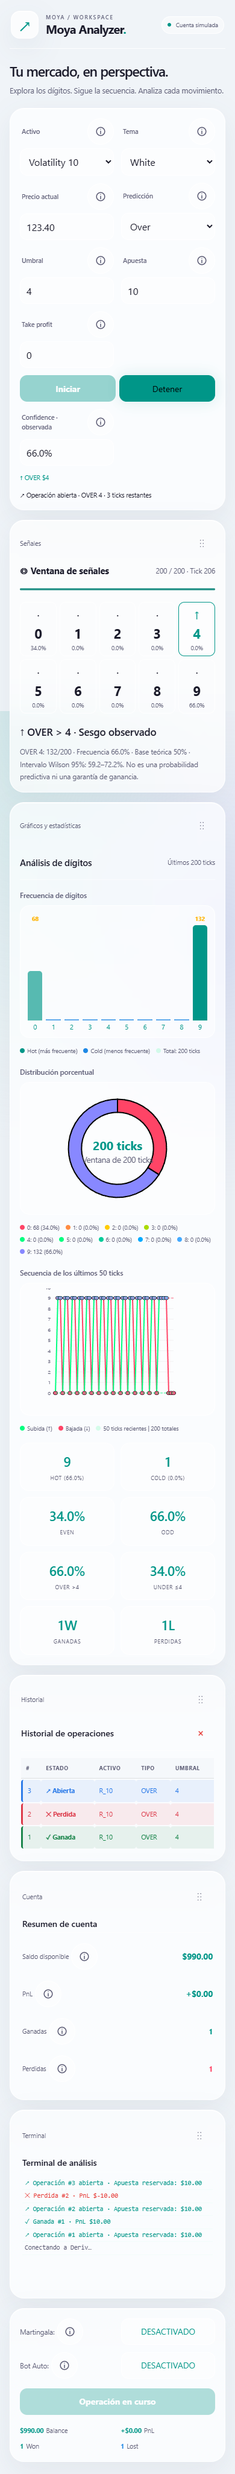
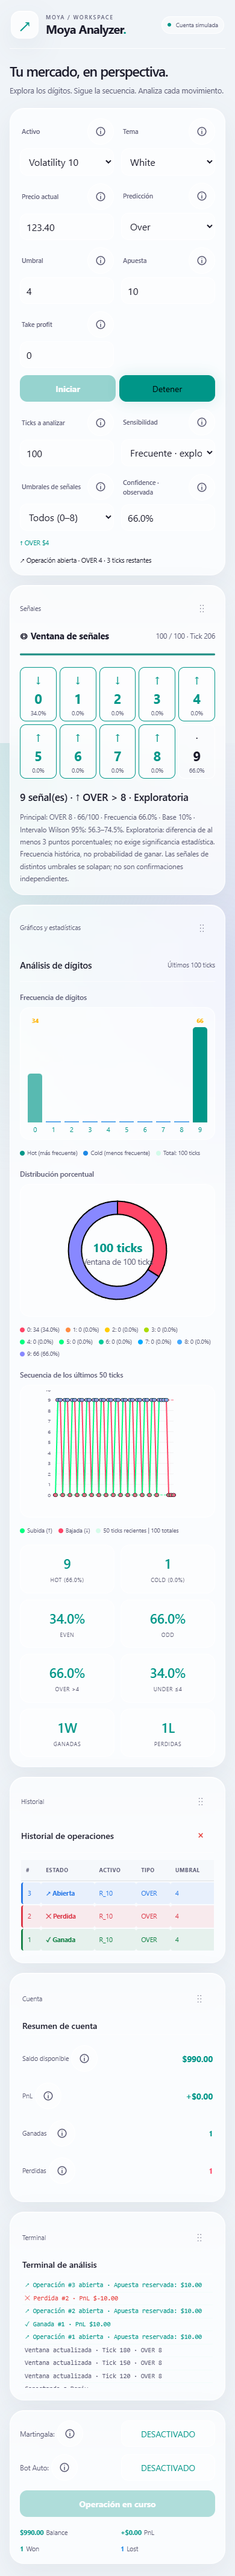
v2.9

diff --git a/index.html b/index.html
@@ -1273,6 +1273,9 @@ button:focus-visible,select:focus-visible,input:focus-visible,[tabindex]:focus-v
 <div class="field field-trade-stake"><label for="trade-stake">Apuesta</label><input type="number" id="trade-stake" min="0.01" step="0.01" value="1.00" title="Monto de la apuesta"></div>
 <div class="field field-trade-tp"><label for="trade-tp">Take profit</label><input type="number" id="trade-tp" min="0" step="0.01" value="0" title="Take Profit: objetivo de beneficio acumulado (0 = sin límite)"></div>
 <div class="session-actions"><button id="btn-start" onclick="start()" title="Iniciar conexión WebSocket y análisis">Iniciar</button><button id="btn-stop" onclick="stop()" disabled title="Detener sesión y análisis">Detener</button></div>
+<div class="field"><label for="analysis-window">Ticks a analizar</label><input id="analysis-window" type="number" min="20" max="1000" step="1" value="100"></div>
+<div class="field"><label for="signal-sensitivity">Sensibilidad</label><select id="signal-sensitivity"><option value="frequent">Frecuente · exploratoria</option><option value="balanced">Equilibrada</option><option value="strict">Estricta</option></select></div>
+<div class="field"><label for="signal-scope">Umbrales de señales</label><select id="signal-scope"><option value="all">Todos (0–8)</option><option value="selected">Solo el elegido</option></select></div>
 <div class="field field-confidence"><label for="confidence">Confidence · observada</label><input id="confidence" readonly value="—" aria-describedby="signal-explanation"></div>
 <div class="field field-theme-select"><label for="theme-select">Tema</label><select id="theme-select" title="Cambiar tema visual">
             <option value="matrix">Matrix</option>
@@ -1286,7 +1289,7 @@ button:focus-visible,select:focus-visible,input:focus-visible,[tabindex]:focus-v
     <div class="main">
 
         <div class="digits-panel">
-            <div class="chart-title-bar">Análisis de dígitos <span class="panel-caption">Últimos 200 ticks</span></div>
+            <div class="chart-title-bar">Análisis de dígitos <span class="panel-caption" id="analysis-caption">Últimos 100 ticks</span></div>
             <div class="charts-row">
                 <div class="chart-section">
                     <div class="chart-subtitle">Frecuencia de dígitos</div>
@@ -1426,6 +1429,7 @@ let retries = 0;
 let sessionSymbol = 'R_10';
 let baseStake = 1;
 let latestSignal = null;
+let analysisWindow = 100;
 const roundMoney = value => Math.round((value + Number.EPSILON) * 100) / 100;
 
 function start() {
@@ -1497,7 +1501,7 @@ function processTick(digit, quote) {
     priceHistory.push(quote);
     currentPrice = quote;
 
-    if (ticks.length > 200) {
+    if (ticks.length > analysisWindow) {
         const old = ticks.shift();
         digitCounts[old]--;
     }
@@ -1667,7 +1671,7 @@ function renderDonutChart(container) {
     subLabel.setAttribute('text-anchor', 'middle');
     subLabel.setAttribute('fill', 'var(--text-muted)');
     subLabel.setAttribute('font-size', '10');
-    subLabel.textContent = ticks.length ? "Ventana de 200 ticks" : "Esperando datos";
+    subLabel.textContent = ticks.length ? `Ventana de ${analysisWindow} ticks` : "Esperando datos";
     svg.appendChild(subLabel);
 
     container.appendChild(svg);
@@ -2105,6 +2109,7 @@ function toggleAutoBot() {
 function evaluateAutoTrade() {
     if (!autoTrade || !isRunning || trade || !latestSignal?.qualified) return;
     document.getElementById('trade-type').value = latestSignal.type;
+    document.getElementById('trade-thold').value = latestSignal.n;
     openTrade();
 }
 
@@ -2150,7 +2155,7 @@ function showToast(message, type = '') {
 
 function updateAnalysis() {
     updateSignal();
-    if (ticks.length === 200) log('<span class="gray">Ventana actualizada · Tick ' + totalTicks + ' · ' + (latestSignal?.qualified ? latestSignal.type.toUpperCase() + ' ' + latestSignal.n : 'Sin señal estadística') + '</span>');
+    if (ticks.length === analysisWindow) log('<span class="gray">Ventana actualizada · Tick ' + totalTicks + ' · ' + (latestSignal?.qualified ? latestSignal.type.toUpperCase() + ' ' + latestSignal.n : 'Sin señal estadística') + '</span>');
 }
 
 document.getElementById('symbol').addEventListener('change', function() {
@@ -2430,9 +2435,9 @@ if ('ResizeObserver' in window) {
 <!-- embedded:workspace.js:start -->
 <script data-source="workspace.js">
 /* Local workspace controls; no framework, external icon font or account needed. */
-function wilsonInterval(successes, count) {
+function wilsonInterval(successes, count, z = 1.96) {
     if (!count) return [0, 1];
-    const z = 1.96, p = successes / count, denominator = 1 + z*z/count;
+    const p = successes / count, denominator = 1 + z*z/count;
     const centre = (p + z*z/(2*count)) / denominator;
     const margin = z * Math.sqrt(p*(1-p)/count + z*z/(4*count*count)) / denominator;
     return [Math.max(0, centre-margin), Math.min(1, centre+margin)];
@@ -2440,53 +2445,80 @@ function wilsonInterval(successes, count) {
 
 function updateSignal() {
     const count = ticks.length;
+    const mode = document.getElementById('signal-sensitivity').value;
+    const all = document.getElementById('signal-scope').value === 'all';
     const raw = document.getElementById('trade-thold').value;
-    const n = Number(raw);
-    const valid = raw !== '' && Number.isInteger(n) && n >= 0 && n < 9;
-    const ready = count === 200 && valid;
-    latestSignal = null;
-    document.getElementById('window-count').textContent = count + ' / 200 · Tick ' + totalTicks;
-    document.getElementById('window-progress').value = count;
-    const summary = document.getElementById('signal-summary');
-    const confidence = document.getElementById('confidence');
-    confidence.value = '—';
-    if (ready) {
+    const selected = Number(raw);
+    const valid = raw !== '' && Number.isInteger(selected) && selected >= 0 && selected < 9;
+    const ready = count === analysisWindow;
+    const candidates = [];
+    if (ready) for (let n = 0; n < 9; n++) {
+        if (!all && (!valid || n !== selected)) continue;
         const overCount = ticks.filter(d => d > n).length;
-        const theoreticalOver = (9-n)/10;
-        const type = overCount/count > theoreticalOver ? 'over' : 'under';
+        const type = overCount/count > (9-n)/10 ? 'over' : 'under';
         const hits = type === 'over' ? overCount : count-overCount;
         const observed = hits/count;
         const baseline = getWinProbability(type,n);
         const [low, high] = wilsonInterval(hits,count);
-        // Compare a single user-selected threshold with its own theoretical baseline.
-        // A high raw percentage alone does not qualify as a signal.
-        const qualified = low > baseline;
-        latestSignal = {type,n,observed,baseline,low,high,qualified};
-        confidence.value = (observed*100).toFixed(1) + '%';
-        summary.textContent = qualified ? (type === 'over' ? '↑ OVER > ' : '↓ UNDER ≤ ') + n + ' · Sesgo observado' : 'Sin señal clara para el umbral ' + n;
-        document.getElementById('signal-explanation').textContent = type.toUpperCase() + ' ' + n + ': ' + hits + '/200 · Frecuencia ' + (observed*100).toFixed(1) + '% · Base teórica ' + (baseline*100).toFixed(0) + '% · Intervalo Wilson 95%: ' + (low*100).toFixed(1) + '–' + (high*100).toFixed(1) + '%. No es una probabilidad predictiva ni una garantía de ganancia.';
-    } else {
-        summary.textContent = !valid ? 'Selecciona un umbral de 0 a 8 para analizar ambas direcciones.' : 'Recopilando datos: faltan ' + (200-count) + ' ticks.';
-        document.getElementById('signal-explanation').textContent = 'A partir de 200 ticks, cada tick nuevo sustituye al más antiguo. Confidence muestra la frecuencia de la dirección analizada; no predice el siguiente tick.';
+        const balancedLow = wilsonInterval(hits,count,1.281552)[0];
+        const excess = observed-baseline;
+        const qualified = mode === 'frequent' ? excess >= .03 - 1e-10 : mode === 'balanced' ? balancedLow > baseline : low > baseline;
+        const score = excess / Math.sqrt(baseline*(1-baseline)/count);
+        candidates.push({type,n,hits,observed,baseline,low,high,qualified,score});
     }
-    document.getElementById('signal-digits').innerHTML = digitCounts.map((frequency,digit) => {
-        const active = latestSignal?.qualified && digit === n;
-        const arrow = active ? (latestSignal.type === 'over' ? '↑' : '↓') : '·';
-        return '<div class="signal-digit' + (active ? ' suggested' : '') + '"><span class="signal-arrow" aria-label="' + (active ? latestSignal.type.toUpperCase() + ' umbral ' + digit : 'Sin señal') + '">' + arrow + '</span><strong>' + digit + '</strong><small>' + (count ? frequency/count*100 : 0).toFixed(1) + '%</small></div>';
+    candidates.sort((a,b)=>Number(b.qualified)-Number(a.qualified)||b.score-a.score||a.n-b.n);
+    latestSignal = candidates[0] || null;
+    const active = candidates.filter(s=>s.qualified);
+    document.getElementById('window-count').textContent = count + ' / ' + analysisWindow + ' · Tick ' + totalTicks;
+    document.getElementById('analysis-caption').textContent = 'Últimos ' + analysisWindow + ' ticks';
+    const progress = document.getElementById('window-progress'); progress.max = analysisWindow; progress.value = count;
+    document.getElementById('confidence').value = latestSignal ? (latestSignal.observed*100).toFixed(1)+'%' : '—';
+    const summary=document.getElementById('signal-summary');
+    const explanation=document.getElementById('signal-explanation');
+    if (!ready) {
+        summary.textContent = 'Recopilando datos: faltan ' + (analysisWindow-count) + ' ticks.';
+        explanation.textContent = 'Cada tick nuevo actualizará las señales. Puedes reducir la ventana para empezar antes; una ventana corta también fluctúa más.';
+    } else if (!latestSignal) {
+        summary.textContent = 'Selecciona un umbral entre 0 y 8 o analiza todos.';
+        explanation.textContent = 'El umbral 9 no permite comparar dos resultados posibles.';
+    } else {
+        const s=latestSignal;
+        summary.textContent = active.length ? active.length+' señal(es) · '+(s.type==='over'?'↑ OVER > ':'↓ UNDER ≤ ')+s.n+' · '+(mode==='frequent'?'Exploratoria':mode==='balanced'?'Equilibrada':'Estricta') : 'Sin señal con el filtro actual';
+        explanation.textContent = 'Principal: '+s.type.toUpperCase()+' '+s.n+' · '+s.hits+'/'+count+' · Frecuencia '+(s.observed*100).toFixed(1)+'% · Base '+(s.baseline*100).toFixed(0)+'% · Intervalo Wilson 95%: '+(s.low*100).toFixed(1)+'–'+(s.high*100).toFixed(1)+'%. '+(mode==='frequent'?'Exploratoria: diferencia de al menos 3 puntos porcentuales; no exige significancia estadística. ':'')+'Frecuencia histórica, no probabilidad de ganar. Las señales de distintos umbrales se solapan; no son confirmaciones independientes.';
+    }
+    document.getElementById('signal-digits').innerHTML = digitCounts.map((frequency,digit)=>{
+        const s=active.find(s=>s.n===digit);
+        return '<div class="signal-digit'+(s?' suggested':'')+'"><span class="signal-arrow" aria-label="'+(s?s.type.toUpperCase()+' umbral '+digit:'Sin señal')+'">'+(s?(s.type==='over'?'↑':'↓'):'·')+'</span><strong>'+digit+'</strong><small>'+(count?frequency/count*100:0).toFixed(1)+'%</small></div>';
     }).join('');
 }
 
+function saveAnalysisSettings() {
+    try { localStorage.setItem('moyaAnalysisSettings', JSON.stringify({window:analysisWindow,sensitivity:document.getElementById('signal-sensitivity').value,scope:document.getElementById('signal-scope').value})); } catch (_) {}
+}
+function changeAnalysisWindow() {
+    const input=document.getElementById('analysis-window');
+    const value=Number(input.value);
+    if (!Number.isInteger(value)||value<20||value>1000) { input.value=analysisWindow; showToast('Elige entre 20 y 1000 ticks.', 'error'); return; }
+    analysisWindow=value;
+    ticks=ticks.slice(-analysisWindow);
+    digitCounts=Array(10).fill(0);ticks.forEach(d=>digitCounts[d]++);
+    saveAnalysisSettings(); updateDisplay();
+}
+
 const helpContent = {
+    'analysis-window': ['Ticks a analizar', 'Cantidad de datos recientes usados en gráficos, estadísticas y señales: entre 20 y 1000. Al reducir se conservan los últimos ticks; al aumentar se esperan nuevos datos hasta completar la ventana. No cambia la duración de las operaciones (3 ticks).', 'Ejemplo: 50 ticks empieza antes que 200, pero los porcentajes fluctúan más.'],
+    'signal-sensitivity': ['Sensibilidad', 'Frecuente: muestra desviaciones de 3 puntos porcentuales sin exigir significancia. Equilibrada: límite inferior Wilson al 80% superior a la base. Estricta: usa el 95%. Más señales no significa mayor precisión.', 'Ejemplo: OVER 5 con 44% observado frente a base 40% puede activar el modo frecuente, aunque no pase el filtro estricto.'],
+    'signal-scope': ['Umbrales de señales', 'Todos analiza umbrales 0 a 8 en cada tick; Solo el elegido analiza el campo Umbral. Confidence corresponde a la señal principal, ordenada por desviación estandarizada. El bot usa esa dirección y ese umbral.', 'Las flechas de diferentes umbrales pueden representar los mismos ticks; no son oportunidades independientes.'],
     symbol: ['Activo', 'Selecciona el mercado que suministra los ticks. Cambiar de activo reinicia la ventana; una operación pendiente se anula y su apuesta se devuelve.', 'Ejemplo: Volatility 10.'],
     'real-price': ['Precio actual', 'Última cotización recibida de Deriv. Es de solo lectura. El último dígito se obtiene respetando la precisión indicada por el proveedor.', 'Ejemplo: 123.40 produce el dígito 0, no el 4.'],
     'trade-type': ['Predicción', 'OVER gana si el último dígito es mayor que el umbral. UNDER gana si es menor o igual. Esta es la regla del simulador y no un contrato real de Deriv.', 'Ejemplo: OVER 5 gana con 6, 7, 8 o 9; UNDER 5 con 0 a 5. La resolución ocurre en el tercer tick posterior a la entrada.'],
     'trade-thold': ['Umbral', 'Número con el que se compara el dígito al liquidar la operación. El análisis compara la frecuencia observada con la base teórica de ese mismo umbral.', 'Ejemplo: OVER 0 tiene una base de 90%; un 60% observado no sería una señal favorable. El umbral 9 no permite una operación útil.'],
     'trade-stake': ['Apuesta', 'Importe simulado reservado al abrir. El saldo disponible baja inmediatamente. Al ganar se devuelve la apuesta más el beneficio; al perder no se descuenta otra vez.', 'Ejemplo: saldo $100, apuesta $10 → disponible $90. OVER 4 ganado devuelve $20 → saldo $110.'],
     'trade-tp': ['Take profit', 'Detiene la sesión y el bot cuando el beneficio neto acumulado alcanza este importe. Se conserva al reconectar. Cero desactiva el objetivo.', 'Ejemplo: 20 detiene la sesión al alcanzar al menos $20 de PnL.'],
-    confidence: ['Confidence · frecuencia observada', 'Campo automático y de solo lectura. Muestra cuántos de los últimos 200 dígitos cumplen la dirección analizada. La flecha aparece cuando el límite inferior del intervalo Wilson de 95% supera la probabilidad teórica del umbral elegido. No significa 95% de probabilidad de ganar. Las ventanas se solapan y observar muchas ventanas puede producir señales por azar.', 'Ejemplo: OVER 5 cumple en 110 de 200 ticks: frecuencia 55%, base 40%, intervalo aproximado 48.1–61.7%. Es una desviación histórica, no una predicción validada.'],
+    confidence: ['Confidence · frecuencia observada', 'Porcentaje histórico de ticks que cumplen la dirección y umbral de la señal principal. No es una probabilidad predictiva. El intervalo mostrado siempre es Wilson al 95%; la sensibilidad elegida determina cuándo aparece una flecha.', 'Ejemplo: 44 aciertos de 100 ticks = 44% observado; no significa 44% garantizado en el próximo tick.'],
     'theme-select': ['Tema', 'Cambia los colores de la interfaz. Los estados de las operaciones mantienen siempre azul, verde y rojo.', 'Ejemplo: White usa superficies claras; Ocean, tonos azules.'],
     'btn-martingala': ['Martingala', 'Duplica la siguiente apuesta tras perder y vuelve a la apuesta base al ganar. No aumenta la probabilidad de acierto. Se rechazan importes superiores al saldo disponible.', 'Ejemplo: base $2 → pérdida → siguiente apuesta $4.'],
-    'btn-autobot': ['Bot automático', 'Solo abre operaciones simuladas al completar 200 ticks y existir una señal del umbral configurado. Usa la misma señal visible y nunca abre dos operaciones a la vez.', 'Ejemplo: flecha ↑ sobre 5 → operación OVER 5. Una señal histórica no garantiza rentabilidad.'],
+    'btn-autobot': ['Bot automático', 'Espera a completar la ventana elegida y sigue la señal principal con su sensibilidad actual. Usa el mismo umbral y dirección que se muestran. Solo abre una operación a la vez.', 'En modo frecuente también opera señales exploratorias. Más entradas no implica mejores resultados.'],
     'acc-balance': ['Saldo disponible', 'Saldo simulado libre después de reservar la operación abierta. PnL contiene solo resultados liquidados. Detener o perder la conexión anula la operación pendiente y devuelve su apuesta. El historial y la cuenta viven en esta pestaña; solo el orden y el tema se guardan.', 'Ejemplo: $100 disponibles, apuesta $10, pérdida → $90.'],
     'acc-pnl': ['PnL', 'Suma de ganancias y pérdidas liquidadas. No incluye apuestas abiertas. Los pagos son teóricos del simulador, sin comisiones, y no cotizaciones reales de Deriv.', 'Ejemplo: +$10 y −$4 → PnL +$6.'],
     'acc-won': ['Ganadas', 'Número de operaciones liquidadas con resultado ganador. No cuenta operaciones abiertas ni anuladas.', 'Ejemplo: dos cierres ganadores → 2.'],
@@ -2614,6 +2646,17 @@ try {
         if(section)workspace.append(section);
     });
 } catch (_) { /* Ignore unavailable storage and malformed saved layouts. */ }
+try {
+    const saved=JSON.parse(localStorage.getItem('moyaAnalysisSettings')||'null');
+    if(saved) {
+        if(Number.isInteger(saved.window)&&saved.window>=20&&saved.window<=1000)analysisWindow=saved.window;
+        if(['frequent','balanced','strict'].includes(saved.sensitivity))document.getElementById('signal-sensitivity').value=saved.sensitivity;
+        if(['all','selected'].includes(saved.scope))document.getElementById('signal-scope').value=saved.scope;
+    }
+} catch (_) {}
+document.getElementById('analysis-window').value=analysisWindow;
+document.getElementById('analysis-window').addEventListener('change',changeAnalysisWindow);
+['signal-sensitivity','signal-scope'].forEach(id=>document.getElementById(id).addEventListener('change',()=>{saveAnalysisSettings();updateSignal();}));
 ['trade-thold','trade-type'].forEach(id=>document.getElementById(id).addEventListener('input',updateSignal));
 updateSignal();
 

diff --git a/workspace.js b/workspace.js
@@ -1,7 +1,7 @@
 /* Local workspace controls; no framework, external icon font or account needed. */
-function wilsonInterval(successes, count) {
+function wilsonInterval(successes, count, z = 1.96) {
     if (!count) return [0, 1];
-    const z = 1.96, p = successes / count, denominator = 1 + z*z/count;
+    const p = successes / count, denominator = 1 + z*z/count;
     const centre = (p + z*z/(2*count)) / denominator;
     const margin = z * Math.sqrt(p*(1-p)/count + z*z/(4*count*count)) / denominator;
     return [Math.max(0, centre-margin), Math.min(1, centre+margin)];
@@ -9,53 +9,80 @@ function wilsonInterval(successes, count) {
 
 function updateSignal() {
     const count = ticks.length;
+    const mode = document.getElementById('signal-sensitivity').value;
+    const all = document.getElementById('signal-scope').value === 'all';
     const raw = document.getElementById('trade-thold').value;
-    const n = Number(raw);
-    const valid = raw !== '' && Number.isInteger(n) && n >= 0 && n < 9;
-    const ready = count === 200 && valid;
-    latestSignal = null;
-    document.getElementById('window-count').textContent = count + ' / 200 · Tick ' + totalTicks;
-    document.getElementById('window-progress').value = count;
-    const summary = document.getElementById('signal-summary');
-    const confidence = document.getElementById('confidence');
-    confidence.value = '—';
-    if (ready) {
+    const selected = Number(raw);
+    const valid = raw !== '' && Number.isInteger(selected) && selected >= 0 && selected < 9;
+    const ready = count === analysisWindow;
+    const candidates = [];
+    if (ready) for (let n = 0; n < 9; n++) {
+        if (!all && (!valid || n !== selected)) continue;
         const overCount = ticks.filter(d => d > n).length;
-        const theoreticalOver = (9-n)/10;
-        const type = overCount/count > theoreticalOver ? 'over' : 'under';
+        const type = overCount/count > (9-n)/10 ? 'over' : 'under';
         const hits = type === 'over' ? overCount : count-overCount;
         const observed = hits/count;
         const baseline = getWinProbability(type,n);
         const [low, high] = wilsonInterval(hits,count);
-        // Compare a single user-selected threshold with its own theoretical baseline.
-        // A high raw percentage alone does not qualify as a signal.
-        const qualified = low > baseline;
-        latestSignal = {type,n,observed,baseline,low,high,qualified};
-        confidence.value = (observed*100).toFixed(1) + '%';
-        summary.textContent = qualified ? (type === 'over' ? '↑ OVER > ' : '↓ UNDER ≤ ') + n + ' · Sesgo observado' : 'Sin señal clara para el umbral ' + n;
-        document.getElementById('signal-explanation').textContent = type.toUpperCase() + ' ' + n + ': ' + hits + '/200 · Frecuencia ' + (observed*100).toFixed(1) + '% · Base teórica ' + (baseline*100).toFixed(0) + '% · Intervalo Wilson 95%: ' + (low*100).toFixed(1) + '–' + (high*100).toFixed(1) + '%. No es una probabilidad predictiva ni una garantía de ganancia.';
-    } else {
-        summary.textContent = !valid ? 'Selecciona un umbral de 0 a 8 para analizar ambas direcciones.' : 'Recopilando datos: faltan ' + (200-count) + ' ticks.';
-        document.getElementById('signal-explanation').textContent = 'A partir de 200 ticks, cada tick nuevo sustituye al más antiguo. Confidence muestra la frecuencia de la dirección analizada; no predice el siguiente tick.';
+        const balancedLow = wilsonInterval(hits,count,1.281552)[0];
+        const excess = observed-baseline;
+        const qualified = mode === 'frequent' ? excess >= .03 - 1e-10 : mode === 'balanced' ? balancedLow > baseline : low > baseline;
+        const score = excess / Math.sqrt(baseline*(1-baseline)/count);
+        candidates.push({type,n,hits,observed,baseline,low,high,qualified,score});
     }
-    document.getElementById('signal-digits').innerHTML = digitCounts.map((frequency,digit) => {
-        const active = latestSignal?.qualified && digit === n;
-        const arrow = active ? (latestSignal.type === 'over' ? '↑' : '↓') : '·';
-        return '<div class="signal-digit' + (active ? ' suggested' : '') + '"><span class="signal-arrow" aria-label="' + (active ? latestSignal.type.toUpperCase() + ' umbral ' + digit : 'Sin señal') + '">' + arrow + '</span><strong>' + digit + '</strong><small>' + (count ? frequency/count*100 : 0).toFixed(1) + '%</small></div>';
+    candidates.sort((a,b)=>Number(b.qualified)-Number(a.qualified)||b.score-a.score||a.n-b.n);
+    latestSignal = candidates[0] || null;
+    const active = candidates.filter(s=>s.qualified);
+    document.getElementById('window-count').textContent = count + ' / ' + analysisWindow + ' · Tick ' + totalTicks;
+    document.getElementById('analysis-caption').textContent = 'Últimos ' + analysisWindow + ' ticks';
+    const progress = document.getElementById('window-progress'); progress.max = analysisWindow; progress.value = count;
+    document.getElementById('confidence').value = latestSignal ? (latestSignal.observed*100).toFixed(1)+'%' : '—';
+    const summary=document.getElementById('signal-summary');
+    const explanation=document.getElementById('signal-explanation');
+    if (!ready) {
+        summary.textContent = 'Recopilando datos: faltan ' + (analysisWindow-count) + ' ticks.';
+        explanation.textContent = 'Cada tick nuevo actualizará las señales. Puedes reducir la ventana para empezar antes; una ventana corta también fluctúa más.';
+    } else if (!latestSignal) {
+        summary.textContent = 'Selecciona un umbral entre 0 y 8 o analiza todos.';
+        explanation.textContent = 'El umbral 9 no permite comparar dos resultados posibles.';
+    } else {
+        const s=latestSignal;
+        summary.textContent = active.length ? active.length+' señal(es) · '+(s.type==='over'?'↑ OVER > ':'↓ UNDER ≤ ')+s.n+' · '+(mode==='frequent'?'Exploratoria':mode==='balanced'?'Equilibrada':'Estricta') : 'Sin señal con el filtro actual';
+        explanation.textContent = 'Principal: '+s.type.toUpperCase()+' '+s.n+' · '+s.hits+'/'+count+' · Frecuencia '+(s.observed*100).toFixed(1)+'% · Base '+(s.baseline*100).toFixed(0)+'% · Intervalo Wilson 95%: '+(s.low*100).toFixed(1)+'–'+(s.high*100).toFixed(1)+'%. '+(mode==='frequent'?'Exploratoria: diferencia de al menos 3 puntos porcentuales; no exige significancia estadística. ':'')+'Frecuencia histórica, no probabilidad de ganar. Las señales de distintos umbrales se solapan; no son confirmaciones independientes.';
+    }
+    document.getElementById('signal-digits').innerHTML = digitCounts.map((frequency,digit)=>{
+        const s=active.find(s=>s.n===digit);
+        return '<div class="signal-digit'+(s?' suggested':'')+'"><span class="signal-arrow" aria-label="'+(s?s.type.toUpperCase()+' umbral '+digit:'Sin señal')+'">'+(s?(s.type==='over'?'↑':'↓'):'·')+'</span><strong>'+digit+'</strong><small>'+(count?frequency/count*100:0).toFixed(1)+'%</small></div>';
     }).join('');
 }
 
+function saveAnalysisSettings() {
+    try { localStorage.setItem('moyaAnalysisSettings', JSON.stringify({window:analysisWindow,sensitivity:document.getElementById('signal-sensitivity').value,scope:document.getElementById('signal-scope').value})); } catch (_) {}
+}
+function changeAnalysisWindow() {
+    const input=document.getElementById('analysis-window');
+    const value=Number(input.value);
+    if (!Number.isInteger(value)||value<20||value>1000) { input.value=analysisWindow; showToast('Elige entre 20 y 1000 ticks.', 'error'); return; }
+    analysisWindow=value;
+    ticks=ticks.slice(-analysisWindow);
+    digitCounts=Array(10).fill(0);ticks.forEach(d=>digitCounts[d]++);
+    saveAnalysisSettings(); updateDisplay();
+}
+
 const helpContent = {
+    'analysis-window': ['Ticks a analizar', 'Cantidad de datos recientes usados en gráficos, estadísticas y señales: entre 20 y 1000. Al reducir se conservan los últimos ticks; al aumentar se esperan nuevos datos hasta completar la ventana. No cambia la duración de las operaciones (3 ticks).', 'Ejemplo: 50 ticks empieza antes que 200, pero los porcentajes fluctúan más.'],
+    'signal-sensitivity': ['Sensibilidad', 'Frecuente: muestra desviaciones de 3 puntos porcentuales sin exigir significancia. Equilibrada: límite inferior Wilson al 80% superior a la base. Estricta: usa el 95%. Más señales no significa mayor precisión.', 'Ejemplo: OVER 5 con 44% observado frente a base 40% puede activar el modo frecuente, aunque no pase el filtro estricto.'],
+    'signal-scope': ['Umbrales de señales', 'Todos analiza umbrales 0 a 8 en cada tick; Solo el elegido analiza el campo Umbral. Confidence corresponde a la señal principal, ordenada por desviación estandarizada. El bot usa esa dirección y ese umbral.', 'Las flechas de diferentes umbrales pueden representar los mismos ticks; no son oportunidades independientes.'],
     symbol: ['Activo', 'Selecciona el mercado que suministra los ticks. Cambiar de activo reinicia la ventana; una operación pendiente se anula y su apuesta se devuelve.', 'Ejemplo: Volatility 10.'],
     'real-price': ['Precio actual', 'Última cotización recibida de Deriv. Es de solo lectura. El último dígito se obtiene respetando la precisión indicada por el proveedor.', 'Ejemplo: 123.40 produce el dígito 0, no el 4.'],
     'trade-type': ['Predicción', 'OVER gana si el último dígito es mayor que el umbral. UNDER gana si es menor o igual. Esta es la regla del simulador y no un contrato real de Deriv.', 'Ejemplo: OVER 5 gana con 6, 7, 8 o 9; UNDER 5 con 0 a 5. La resolución ocurre en el tercer tick posterior a la entrada.'],
     'trade-thold': ['Umbral', 'Número con el que se compara el dígito al liquidar la operación. El análisis compara la frecuencia observada con la base teórica de ese mismo umbral.', 'Ejemplo: OVER 0 tiene una base de 90%; un 60% observado no sería una señal favorable. El umbral 9 no permite una operación útil.'],
     'trade-stake': ['Apuesta', 'Importe simulado reservado al abrir. El saldo disponible baja inmediatamente. Al ganar se devuelve la apuesta más el beneficio; al perder no se descuenta otra vez.', 'Ejemplo: saldo $100, apuesta $10 → disponible $90. OVER 4 ganado devuelve $20 → saldo $110.'],
     'trade-tp': ['Take profit', 'Detiene la sesión y el bot cuando el beneficio neto acumulado alcanza este importe. Se conserva al reconectar. Cero desactiva el objetivo.', 'Ejemplo: 20 detiene la sesión al alcanzar al menos $20 de PnL.'],
-    confidence: ['Confidence · frecuencia observada', 'Campo automático y de solo lectura. Muestra cuántos de los últimos 200 dígitos cumplen la dirección analizada. La flecha aparece cuando el límite inferior del intervalo Wilson de 95% supera la probabilidad teórica del umbral elegido. No significa 95% de probabilidad de ganar. Las ventanas se solapan y observar muchas ventanas puede producir señales por azar.', 'Ejemplo: OVER 5 cumple en 110 de 200 ticks: frecuencia 55%, base 40%, intervalo aproximado 48.1–61.7%. Es una desviación histórica, no una predicción validada.'],
+    confidence: ['Confidence · frecuencia observada', 'Porcentaje histórico de ticks que cumplen la dirección y umbral de la señal principal. No es una probabilidad predictiva. El intervalo mostrado siempre es Wilson al 95%; la sensibilidad elegida determina cuándo aparece una flecha.', 'Ejemplo: 44 aciertos de 100 ticks = 44% observado; no significa 44% garantizado en el próximo tick.'],
     'theme-select': ['Tema', 'Cambia los colores de la interfaz. Los estados de las operaciones mantienen siempre azul, verde y rojo.', 'Ejemplo: White usa superficies claras; Ocean, tonos azules.'],
     'btn-martingala': ['Martingala', 'Duplica la siguiente apuesta tras perder y vuelve a la apuesta base al ganar. No aumenta la probabilidad de acierto. Se rechazan importes superiores al saldo disponible.', 'Ejemplo: base $2 → pérdida → siguiente apuesta $4.'],
-    'btn-autobot': ['Bot automático', 'Solo abre operaciones simuladas al completar 200 ticks y existir una señal del umbral configurado. Usa la misma señal visible y nunca abre dos operaciones a la vez.', 'Ejemplo: flecha ↑ sobre 5 → operación OVER 5. Una señal histórica no garantiza rentabilidad.'],
+    'btn-autobot': ['Bot automático', 'Espera a completar la ventana elegida y sigue la señal principal con su sensibilidad actual. Usa el mismo umbral y dirección que se muestran. Solo abre una operación a la vez.', 'En modo frecuente también opera señales exploratorias. Más entradas no implica mejores resultados.'],
     'acc-balance': ['Saldo disponible', 'Saldo simulado libre después de reservar la operación abierta. PnL contiene solo resultados liquidados. Detener o perder la conexión anula la operación pendiente y devuelve su apuesta. El historial y la cuenta viven en esta pestaña; solo el orden y el tema se guardan.', 'Ejemplo: $100 disponibles, apuesta $10, pérdida → $90.'],
     'acc-pnl': ['PnL', 'Suma de ganancias y pérdidas liquidadas. No incluye apuestas abiertas. Los pagos son teóricos del simulador, sin comisiones, y no cotizaciones reales de Deriv.', 'Ejemplo: +$10 y −$4 → PnL +$6.'],
     'acc-won': ['Ganadas', 'Número de operaciones liquidadas con resultado ganador. No cuenta operaciones abiertas ni anuladas.', 'Ejemplo: dos cierres ganadores → 2.'],
@@ -183,5 +210,16 @@ try {
         if(section)workspace.append(section);
     });
 } catch (_) { /* Ignore unavailable storage and malformed saved layouts. */ }
+try {
+    const saved=JSON.parse(localStorage.getItem('moyaAnalysisSettings')||'null');
+    if(saved) {
+        if(Number.isInteger(saved.window)&&saved.window>=20&&saved.window<=1000)analysisWindow=saved.window;
+        if(['frequent','balanced','strict'].includes(saved.sensitivity))document.getElementById('signal-sensitivity').value=saved.sensitivity;
+        if(['all','selected'].includes(saved.scope))document.getElementById('signal-scope').value=saved.scope;
+    }
+} catch (_) {}
+document.getElementById('analysis-window').value=analysisWindow;
+document.getElementById('analysis-window').addEventListener('change',changeAnalysisWindow);
+['signal-sensitivity','signal-scope'].forEach(id=>document.getElementById(id).addEventListener('change',()=>{saveAnalysisSettings();updateSignal();}));
 ['trade-thold','trade-type'].forEach(id=>document.getElementById(id).addEventListener('input',updateSignal));
 updateSignal();

diff --git a/README-ES.md b/README-ES.md
@@ -24,10 +24,10 @@ Un panel de análisis de ticks en tiempo real para índices sintéticos y pares 
 - **Retraso de resolución de 3 ticks** para liquidación en este simulador
 
 ### Señales y workspace
-- La ventana conserva los últimos 200 ticks y se recalcula con cada tick. El contador total sigue avanzando sin límite de ventana.
+- La ventana conserva entre 20 y 1000 ticks (configurable) y se recalcula con cada tick. El contador total sigue avanzando sin límite de ventana.
 - Confidence muestra la frecuencia observada de la dirección analizada para el umbral seleccionado. No es una probabilidad predictiva de ganar.
-- Las flechas ↑ OVER / ↓ UNDER aparecen sobre el umbral cuando el límite inferior del intervalo Wilson del 95% supera la base teórica de esa dirección. Sin esa evidencia se muestra “Sin señal clara”. Las ventanas solapadas pueden generar señales por azar.
-- El bot espera 200 ticks y usa la misma señal visible.
+- Las flechas ↑ OVER / ↓ UNDER aparecen según la sensibilidad elegida: Frecuente (desviación ≥3 puntos porcentuales), Equilibrada (límite Wilson 80%) o Estricta (límite Wilson 95%). Los límites se comparan con la base teórica de cada umbral. Sin esa evidencia se muestra “Sin señal clara”. Las ventanas solapadas pueden generar señales por azar.
+- El bot espera a completar la ventana configurada y usa la señal principal visible, con su umbral y sensibilidad.
 - Historial inmediato: abierta azul, ganada verde, perdida roja; anulada gris. Los colores semánticos se conservan en todos los temas.
 - Secciones reordenables con el control de puntitos (ratón o toque; flechas del teclado al enfocarlo), con orden guardado en localStorage. Cada campo dispone de ayuda modal con ejemplos e iconos SVG locales.
 - Historial y balance duran durante la pestaña; no se guardan al recargar. Tema y orden sí persisten cuando el navegador permite almacenamiento.
@@ -118,10 +118,14 @@ Sube **index.html** a GitHub Pages. Incluye estilos, iconos SVG y lógica del wo
 
 ## Verificación
 
-27 comprobaciones funcionales, restauración del orden y 30 combinaciones responsive (320–1920 px, cinco temas). Incluyen liquidación después del tick 200, saldo, cancelaciones, Martingala, bot, take profit, modales y geometría del donut. Datos deterministas para lógica y una conexión real de lectura a Deriv. Resultado: workspace-checks.json.
+35 comprobaciones funcionales, restauración del orden y 30 combinaciones responsive (320–1920 px, cinco temas). Incluyen liquidación después del tick 200, saldo, cancelaciones, Martingala, bot, take profit, modales y geometría del donut. Datos deterministas para lógica y una conexión real de lectura a Deriv. Resultado: workspace-checks.json.
 
 En Windows con Chrome instalado: Get-Content verify-workspace.cjs -Raw | node. CHROME_PATH permite indicar otro ejecutable compatible. Las pruebas usan los puertos locales 8765 y 9223 y un perfil aislado .ui-browser.
 
 ### Actualización de estilos e iconos
 
 `glass.css` y `workspace.js` se conservan como fuentes editables. Después de modificarlos, ejecuta `node sync-assets.cjs` para actualizar sus bloques integrados en `index.html`. El HTML generado funciona por sí solo. Al publicar una actualización, recarga con Ctrl+F5 para evitar una copia anterior del propio HTML.
+
+### Ventana y sensibilidad configurables
+
+Valores iniciales: 100 ticks, sensibilidad Frecuente y todos los umbrales (0–8). Las preferencias se guardan en localStorage. El modo frecuente es exploratorio: no exige significancia estadística y no promete rentabilidad. La señal principal se ordena por desviación estandarizada; Confidence corresponde a esa señal. Analizar varios umbrales puede mostrar flechas correlacionadas, no oportunidades independientes. Reducir la ventana descarta datos antiguos; aumentarla espera nuevos datos sin reiniciar la cuenta ni el contador de liquidación.

diff --git a/README.md b/README.md
@@ -26,10 +26,10 @@ A real-time tick analysis dashboard for Deriv synthetic indices and forex pairs.
 - **3-tick resolution delay** in this simulator
 
 ### Signals and workspace
-- A rolling 200-tick window updates on every tick; the independent tick counter keeps advancing after 200.
+- A configurable 20–1000-tick window updates on every tick; the independent tick counter keeps advancing after 200.
 - Confidence is the observed frequency of the analyzed direction at the selected threshold, not a predictive win probability.
-- An ↑ OVER / ↓ UNDER arrow appears when the lower 95% Wilson bound exceeds that direction's theoretical baseline. Otherwise the UI reports no clear signal. Repeated overlapping windows may produce chance signals.
-- The bot waits for 200 ticks and follows the displayed signal.
+- Arrows use the selected sensitivity: Frequent (at least 3 percentage points above baseline), Balanced (lower Wilson 80% bound above baseline), or Strict (Wilson 95%). Otherwise the UI reports no clear signal. Repeated overlapping windows may produce chance signals.
+- The bot waits for the configured window and follows the main signal, including its threshold and sensitivity.
 - Immediate history: open blue, won green, lost red, cancelled grey in every theme.
 - Reorder sections with transparent dot handles (mouse or touch; keyboard arrows when focused); localStorage saves their order. Fields include modal help and local SVG icons.
 - Account and history are in-memory; only theme and section order persist across reloads.
@@ -112,8 +112,12 @@ Deploy **index.html** to GitHub Pages. Styles, SVG icons and workspace logic are
 
 ## Verification
 
-27 functional checks, persisted ordering, 30 theme/viewport combinations and a real read-only Deriv tick connection passed in desktop Chrome. See workspace-checks.json. Physical iOS/Android validation remains pending. Run Get-Content verify-workspace.cjs -Raw | node on Windows with Chrome; CHROME_PATH can override the executable. Tests use ports 8765/9223 and the isolated .ui-browser profile.
+35 functional checks, persisted ordering, 30 theme/viewport combinations and a real read-only Deriv tick connection passed in desktop Chrome. See workspace-checks.json. Physical iOS/Android validation remains pending. Run Get-Content verify-workspace.cjs -Raw | node on Windows with Chrome; CHROME_PATH can override the executable. Tests use ports 8765/9223 and the isolated .ui-browser profile.
 
 ### Updating embedded assets
 
 `glass.css` and `workspace.js` remain editable sources. After changing them, run `node sync-assets.cjs` to synchronize their embedded blocks in `index.html`. The resulting HTML works on its own. Hard-refresh after publishing to bypass an older cached HTML document.
+
+### Configurable window and sensitivity
+
+Defaults: 100 ticks, Frequent sensitivity, all thresholds (0–8). Preferences persist in localStorage. Frequent mode is exploratory and does not require statistical significance or promise profitability. The main signal ranks by standardized deviation; Confidence refers to it. Multiple threshold arrows can be correlated. Shrinking the window discards oldest data; growing it waits for new samples without resetting account or settlement counters.
